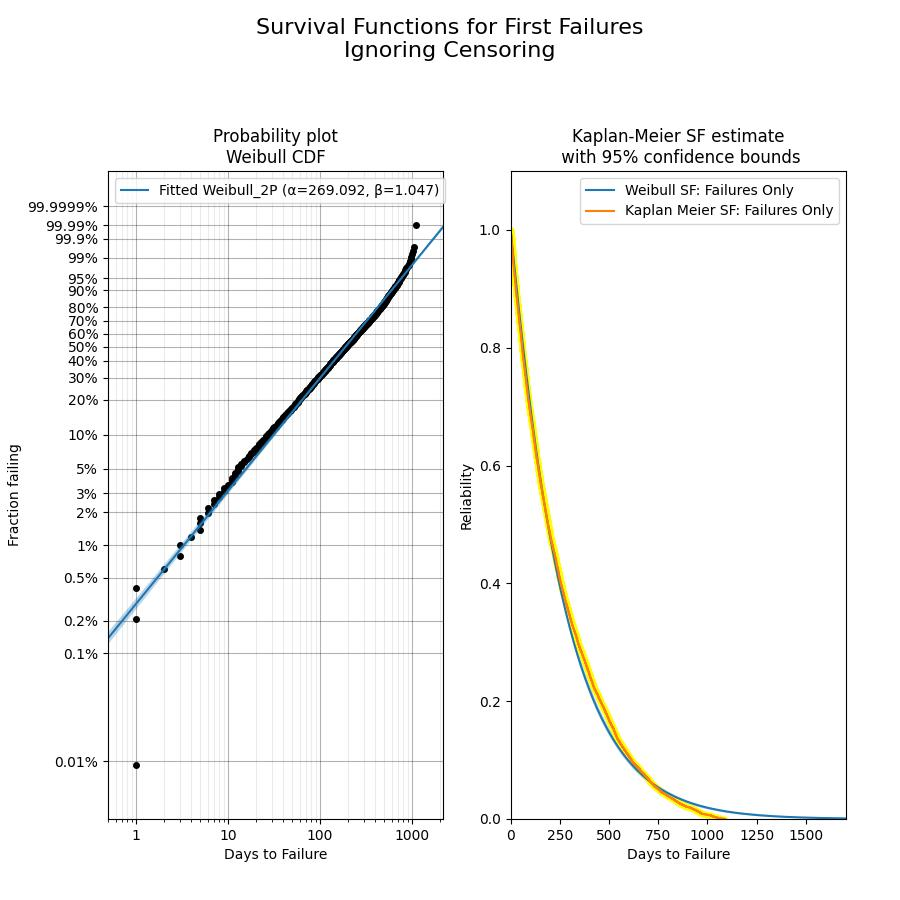
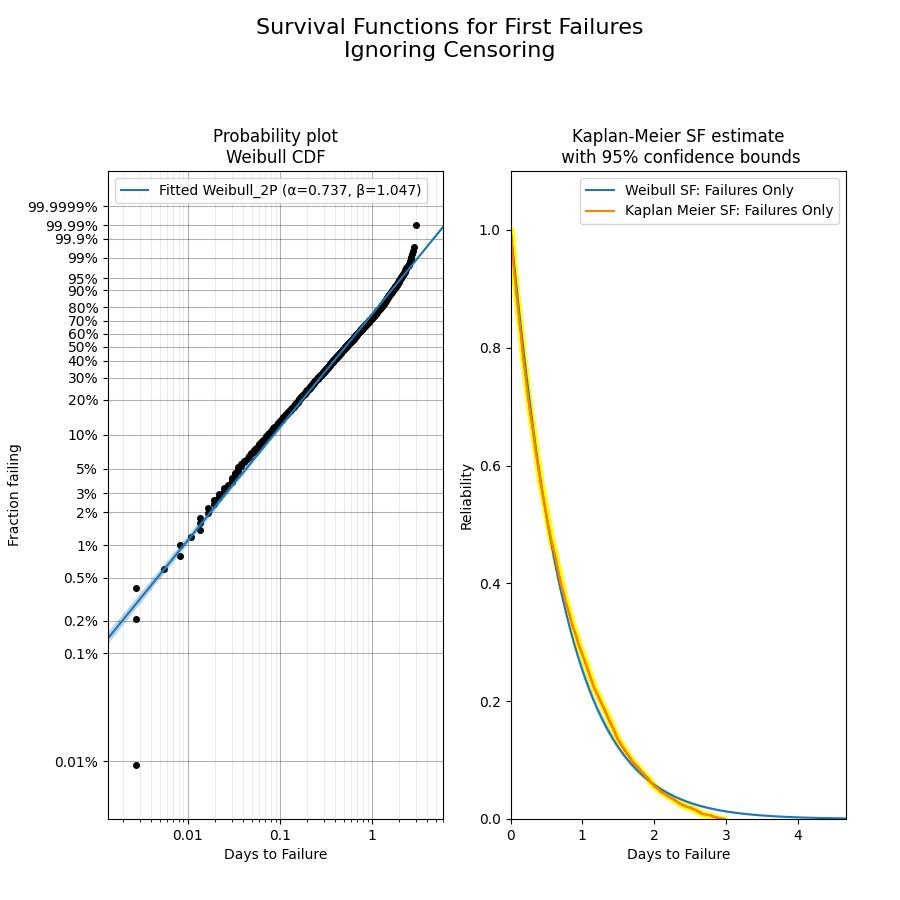
updated 2 failure rate analysis and README.md

diff --git a/2 Failure Rate Analysis.py b/2 Failure Rate Analysis.py
@@ -22,8 +22,8 @@ len(first_fails.loc[first_fails['censor_fail_status'] == 'C'])
 check = pd.DataFrame({'number_events' : first_fails.groupby( ['vin', 'censor_fail_status'] ).size()}).reset_index()
 max(check['number_events'])
 
-fails = first_fails.loc[first_fails['censor_fail_status'] == 'F', 'days_purchase_to_censor_fail'].to_numpy()
-censors = first_fails.loc[first_fails['censor_fail_status'] == 'C', 'days_purchase_to_censor_fail'].to_numpy()
+fails = first_fails.loc[first_fails['censor_fail_status'] == 'F', 'days_purchase_to_censor_fail'].to_numpy()/365
+censors = first_fails.loc[first_fails['censor_fail_status'] == 'C', 'days_purchase_to_censor_fail'].to_numpy()/365
 
 #####  LET'S CHECK WHICH DISTRIBUTION HAS THE BEST FIT FOR THIS SIMULATED DATA
 from reliability.Fitters import Fit_Everything
@@ -43,8 +43,10 @@ results.best_distribution_probability_plot.savefig("plots/Probability Plot of Be
 results.PP_plot.savefig("plots/SemiParametric PP Plots of All Distribution Fits.jpg")
 print('The best fitting distribution was', results.best_distribution_name)
 
+results.best_distribution.SF(xmin=0, xmax=5, label='Weibull Mixture SF')
+plt.xlabel("Years since Purchase")
+
 '''
-Results from Fit_Everything:
 Results from Fit_Everything:
 Analysis method: MLE
 Failures / Right censored: 7614/30000 (79.75754% right censored) 
@@ -66,10 +68,8 @@ Weibull_Mixture                           213.306 0.989545  9891.7 0.987435     
       Gumbel_2P                                                                                   1655.77 562.319                    -74666.2 149336 149353 117958       TNC 
 
 
-The best fitting distribution was Weibull_2P which had parameters [11.27730641  3.30300712  0.        ]
+The best fitting distribution was Weibull_Mixture
 '''
-
-
 
 
 

diff --git a/README.md b/README.md
@@ -1,6 +1,6 @@
 # reliabilityAnalysis
 This Reliability Analysis simulates a sample of 30,000 vehicles of 10 vehicle types (Sedan, Minivan, etc) and 3 model years (2019 - 2021).  
-Failures data within the 3 year New Vehicle Limited Warranty is simulated assuming Poisson distribution of the # of failures within the NVLW, 
+Failure data within the 3 year / 36K mile New Vehicle Limited Warranty is simulated assuming Poisson distribution of the # of failures within the NVLW, 
 using different failure rates for each vehicle type and model year.  The timing of the failure is assumed to be uniformly distributed across
 the observation window, for simplicity.  I assume that the failure rates pick up dramatically in Model Years 2020 and 2021 for both 
 Truck and Heavy Duty Truck types.  This way, the differences in rates between vehicle types and model years can be visualized with 
@@ -16,9 +16,9 @@ how each vehicle's mileage accrues.  A dealer can see the car's mileage only whe
 car goes on a long road trip or experiences a lull in driving during the cold winter, this mileage is unknown to the manufacturer
 until the next service appointment.  Mileage more accurately predicts wear and tear on a vehicle than time, because there is 
 huge variability in driving patterns for different vehicle owners.  A work truck might accrue over 50K miles per year, 
-while a remote worker without a commute could drive under 5K miles annually. In simulating the data, we assume large standard 
-deviations in these mileage patterns to capture the variability in driving across vehicle owners.  MCF's based on time (days since
-purchase) and mileage (1K miles since purchase) can paint a very different picture for how failures accrue.
+while a remote worker without a commute could drive under 5K miles annually. In simulating the data, I assume large standard 
+deviations in these mileage patterns to capture the variability in driving across vehicle owners.  MCF's based on time (days or years since
+purchase) and miles since purchase can paint a very different picture for how failures accrue.
 
 ## 2 Failure Rate Analysis.py
 explores distribution fitting and non-parametric measures of failure rates.  The reliability
@@ -58,6 +58,12 @@ package in Python offers a multitude of useful functions for fitting and plottin
     To illustrate the importance of accounting for censoring, **2 Failure Rate Analysis.py** shows plots both ignoring and including the 
     censoring information.  Without including censoring, at the end of the NVLW, 100% of vehicles are assumed to have experienced a failure.
     With censoring, over 70% of vehicles survive without a first failure at the end of their NVLWs.
+
+When I fit all vehicle data without accounting for censoring, the survival rate reaches 0 by the end of the NVLW:
+![SF Ignoring Censoring](https://github.com/emilysheen/reliabilityAnalysis/blob/master/plots/KM%20and%20Weibull%20Survival%20Functions%20-%20No%20Censoring.jpg?raw=true)
+In contrast, when I account for censoring, the survival probability doesn't drop below 0.7 at the end of the NVLW.
+![SF Including Censoring](https://github.com/emilysheen/reliabilityAnalysis/blob/master/plots/KM%20and%20Weibull%20Survival%20Functions%20-%20With%20Censoring.jpg?raw=true)
+
   3) **Related Probability Distributions** The Weibull distribution is related to the Exponential and Gamma distributions.  The broadest
     distribution is the generalized Gamma, https://en.wikipedia.org/wiki/Generalized_gamma_distribution.  If the two shape parameters
     in the generalized Gamma distribution are equal, it simplifies to the Weibull distribution.  If the Weibull's shape parameter $\beta = 1$,
@@ -66,9 +72,60 @@ package in Python offers a multitude of useful functions for fitting and plottin
     package in Python allows you to fit your data to several distributions at once, including Exponential_1P, Exponential_2P, Gamma_2P, 
     Gamma_3P, Gumbel_2P, Loglogistic_2P, Loglogistic_3P, Lognormal_2P, Lognormal_3P, Normal_2P, Weibull_2P, Weibull_3P, Weibull_CR, Weibull_DS, 
     and Weibull_Mixture, described https://reliability.readthedocs.io/en/latest/Fitting%20a%20specific%20distribution%20to%20data.html.
-  4) **The Weibull Mixture Model** When we fit all the simulated failure data with reliability.Fitters.Fit_Everything, the optimal model fit
+  4) **The Weibull Mixture Model** When I fit all the simulated failure data with reliability.Fitters.Fit_Everything, the optimal model fit
     turns out to be the Weibull Mixture model.  Mixture models work by combining multiple PDF's or CDF's at proportions summing to 1.  They
     are discussed in more detail here: https://reliability.readthedocs.io/en/latest/Mixture%20models.html.  Mixture models are useful when 
     the failure data seems to come in groups. For example, if multiple types of failures are considered (e.g. Engine and Clutch), or different
     types and model years of vehicles are included, then mixture models may be appropriate.  In this case, since I designed the data
-    such that Trucks and Heavy Duty Trucks experienced much higher failure rates in the 2020 and 2021 model years, 
+    so that Trucks and Heavy Duty Trucks experienced much higher failure rates in the 2020 and 2021 model years.  With this inherent 
+    grouping of the data, it makes sense that the mixture of Weibull models turned out to be the best fit.
+5) **The Weibull Defective Subpopulation Model** sometimes known as limited failure populations model, arises when only 
+a fraction of units are subject to failures. A flattening of points on the probability plot may imply a defective subpopulation. 
+In these models, it may be difficult to determine if you have many units failing slowly or a small fraction failing rapidly.
+In the defective subpopulation model, the CDF does not reach 1 during the observation period. Equivalently, the survival
+function does not reach 0.  We saw in the censored KM plot above that the survival function's minimum was above 0.7. 
+Because the simulated data includes many vehicles with 0 failures during the NVLW, but the Trucks and Heavy Duty Truck
+subpopulation often had multiple failures in early life, the defective subpopulation model will be a strong fit when
+we fit parametric models to the data in the following section.
+
+### Results of Fitting All Reliability Distributions on the Simulated Data
+Without separating the data by car type or model year, I fit all vehicles' failure and censor data to all available 
+distributions in the reliability package, listed in (3) above.  I know that the subpopulations of 2020 and 2021 Trucks
+and Heavy Duty Trucks have a much higher failure rate by design of the simulated data.  The results below show that 
+Weibull_Mixture and Weibull_DS fit this data the best, with Weibull_Mixture corresponding to a mixed model of two 
+Weibulls with different shape and scale parameters; and Weibull_DS corresponding to the Weibull Defective 
+Subpopulation model. It makes sense that both models are strong fits to this data, since both are used to 
+represent the effects of disparate subpopulations within a large dataset.
+
+```
+Results from Fit_Everything:
+Analysis method: MLE
+Failures / Right censored: 7614/30000 (79.75754% right censored) 
+   Distribution   Alpha     Beta    Gamma Alpha 1   Beta 1 Alpha 2   Beta 2 Proportion 1       DS      Mu   Sigma      Lambda  Log-likelihood   AICc    BIC     AD optimizer
+Weibull_Mixture                           213.306 0.989545  9891.7 0.987435     0.140727                                             -68153.7 136317 136360 117929       TNC
+     Weibull_DS 432.198 0.887733                                                         0.253359                                    -68183.4 136373 136398 117929       TNC
+   Lognormal_3P                  0.780559                                                         9.03753 2.89256                    -68199.2 136404 136430 117929       TNC
+   Lognormal_2P                                                                                   8.98572 2.83474                    -68219.5 136443 136460 117929       TNC
+ Loglogistic_3P 5952.41 0.663814   0.9999                                                                                            -68243.6 136493 136519 117930       TNC
+     Weibull_3P 8328.92 0.622596   0.9999                                                                                            -68297.4 136601 136626 117931       TNC
+       Gamma_3P 13002.9 0.597674   0.9999                                                                                            -68337.5 136681 136707 117931       TNC
+ Loglogistic_2P 5537.27 0.686637                                                                                                       -68399 136802 136819 117930       TNC
+     Weibull_2P 7705.37 0.643513                                                                                                     -68468.6 136941 136958 117931       TNC
+     Weibull_CR                           7705.35 0.643514 10694.6  15.7975                                                          -68468.6 136945 136979 117931       TNC
+       Gamma_2P 11631.5  0.62014                                                                                                     -68517.3 137039 137056 117932       TNC
+ Exponential_2P                    0.9999                                                                         0.000298313        -69419.6 138843 138860 117960       TNC
+ Exponential_1P                                                                                                   0.000355937        -69559.1 139120 139129 117949  L-BFGS-B
+      Normal_2P                                                                                   1536.84  895.94                    -73822.6 147649 147666 117956       TNC
+      Gumbel_2P                                                                                   1655.77 562.319                    -74666.2 149336 149353 117958       TNC 
+```
+reliability.Fitters.Fit_Everything ranks model fits using minimum BIC (Bayesian Information Criterion), which 
+penalizes more complex models that use a higher number of parameters.  Despite the greater number of parameters in the
+Weibull mixture model, it is still the optimal choice based on both AIC and BIC.  Model choices can be visually compared
+using probability plots, as seen below.  The best fitting models have data points that most closely align with the straight
+diagonal line corresponding to equal quantiles between the data and fitted distribution.  The Normal and Gumbel models
+have extremely poor fit, as evidenced by the large bending deviation between the data points and expected probabilities.
+
+![SF Including Censoring](https://github.com/emilysheen/reliabilityAnalysis/blob/master/plots/Probability%20Plots%20of%20All%20Distribution%20Fits.jpg?raw=true)
+
+
+
